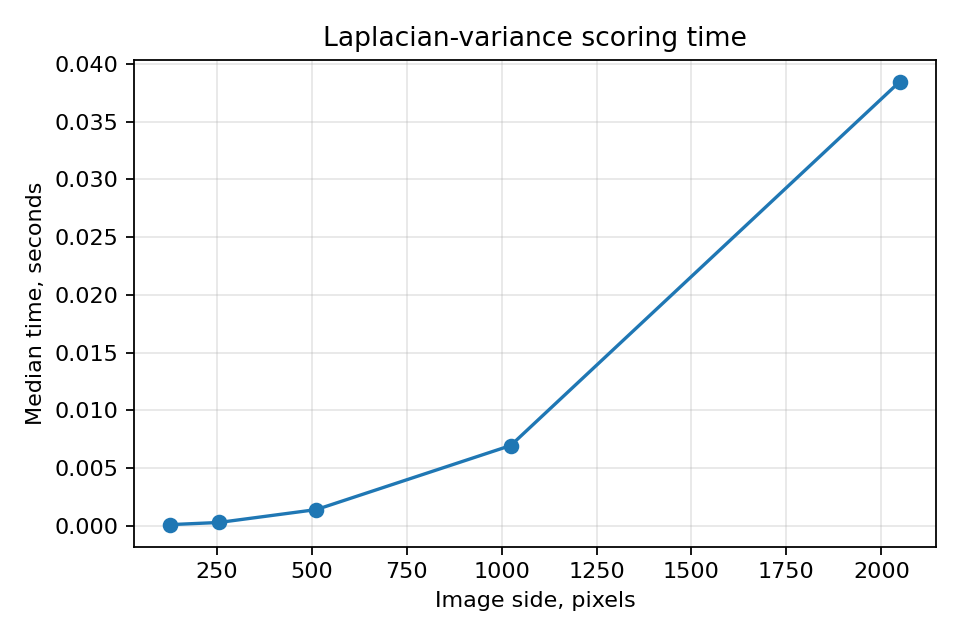
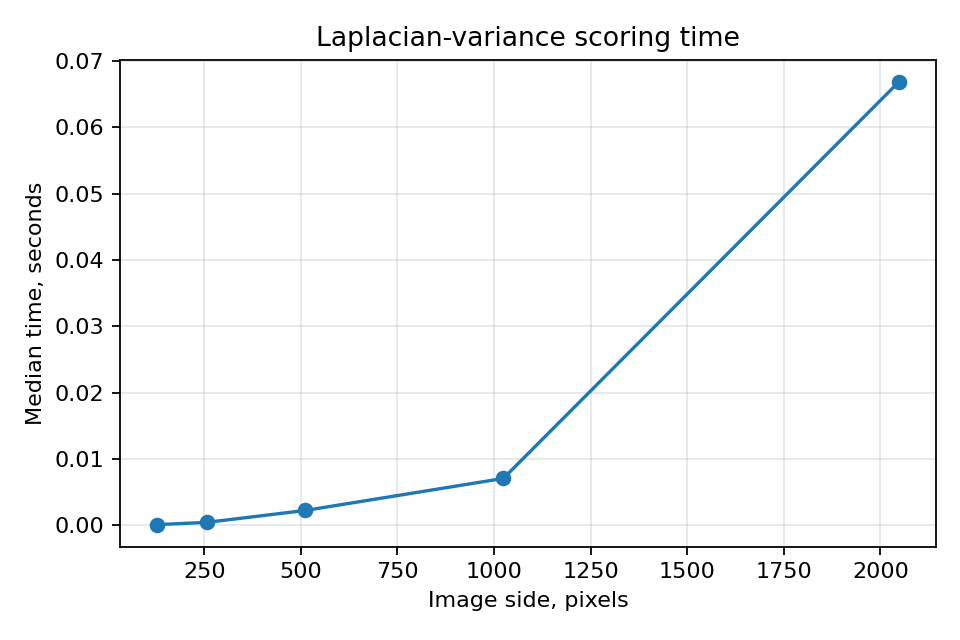
upd coverage

diff --git a/README.md b/README.md
@@ -1,7 +1,7 @@
 # Image Quality Sorter
 
 ![tests](docs/_static/badges/tests.svg)
-![coverage](docs/_static/badges/coverage.svg)
+[![coverage](docs/_static/badges/coverage.svg)](https://Qurvie1.github.io/quality_images_project/coverage/)
 [![License: MIT](https://img.shields.io/badge/License-MIT-blue.svg)](https://opensource.org/licenses/MIT)
 
 `image-quality-sorter` ranks images by sharpness and blur. The default metric is
